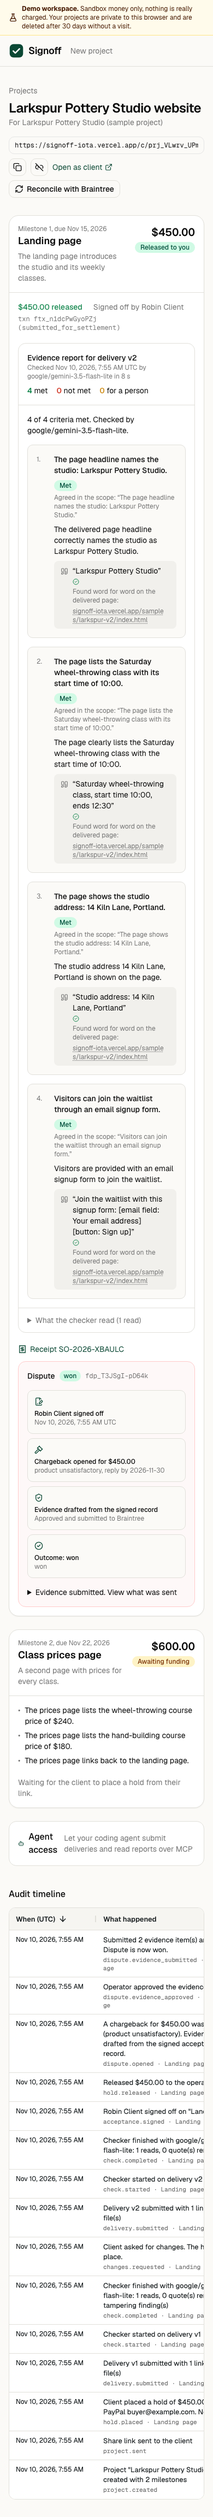
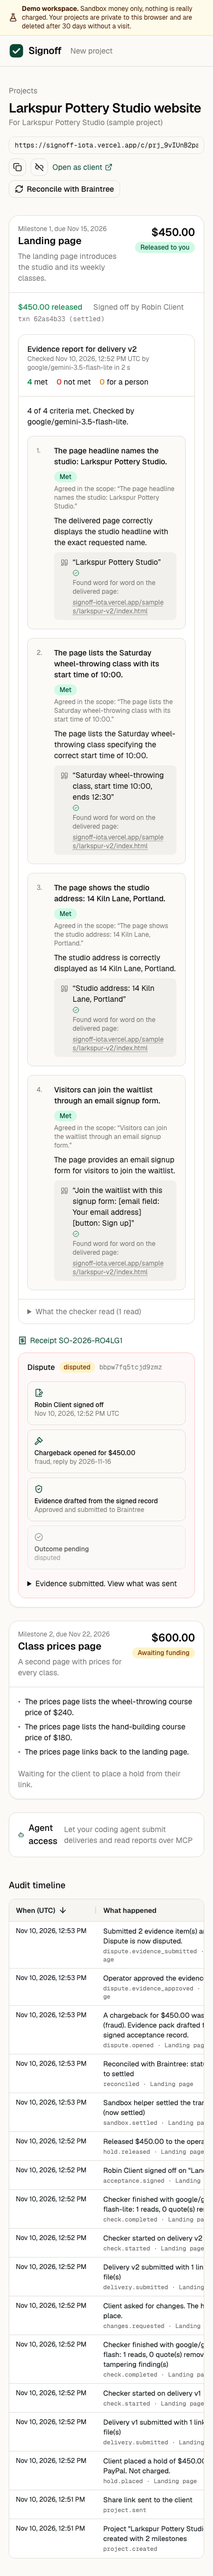
Docs: live Braintree sandbox results of 10 November 2026, PayPal not available without a linked PayPal sandbox account, dispute ends disputed; refreshed production screenshots on the sandbox

Changed region(s): [[0.0615, 0.0, 0.9538, 1.0]]

diff --git a/src/app/page.tsx b/src/app/page.tsx
@@ -18,7 +18,7 @@ const steps = [
   {
     icon: Lock,
     title: "Money held, not charged",
-    body: "The client funds a milestone with PayPal or a card. It is an authorization: the money is reserved and nothing is charged until they sign off.",
+    body: "The client funds a milestone through Braintree, a PayPal service. It is an authorization: the money is reserved and nothing is charged until they sign off.",
   },
   {
     icon: ShieldCheck,

diff --git a/README.md b/README.md
@@ -2,7 +2,7 @@
 
 Pay on acceptance for freelance and agency work. The client's money is held up front, an AI checker tests the delivery against the acceptance criteria both sides agreed and shows its evidence, and the money is released only when the client signs off.
 
-**Live demo:** https://signoff-iota.vercel.app. No sign-up: each visitor gets a private demo workspace with test money, on the built-in test rail until the Braintree sandbox keys are in. The header says which rail is live.
+**Live demo:** https://signoff-iota.vercel.app. No sign-up: each visitor gets a private demo workspace, and every payment runs on the real Braintree sandbox. No real money moves.
 **Health:** https://signoff-iota.vercel.app/api/health shows which payment rail and which AI model are live right now.
 
 ![The evidence report on the cheat sample: tampering found, and the hidden start time and address not accepted as proof](docs/screenshots/report-cheat.png)
@@ -21,7 +21,23 @@ Signoff moves money through **Braintree**, which is part of the PayPal developer
 
 PayPal does not open accounts in Pakistan, where the builder lives ([Profit, January 2024](https://profit.pakistantoday.com.pk/2024/01/06/fact-check-paypal-is-not-coming-to-pakistan/): users "can simply not create an account on PayPal from Pakistan"), so PayPal REST sandbox credentials were not available. The Braintree sandbox is. Clients pay with their PayPal account through Braintree's PayPal integration, or with a card.
 
-**Status of the live sandbox:** the Braintree integration is written and covered by a gated live test suite (`tests/unit/live-braintree.test.ts`), but it has **not yet been run against the Braintree sandbox**, because the sandbox keys are still pending. Until they arrive, the hosted demo and the tests run on a built-in test rail (`src/lib/payments/fake-rail.ts`) with the same rules as Braintree: void only while authorized or submitted, release only while authorized, settle only after release, holds expire (7 days for cards, 29 for PayPal), and it accepts Braintree's documented fake nonces. The header and the client page say which rail is live.
+**Run against the live Braintree sandbox on 10 November 2026.** The hosted demo runs every payment on the sandbox (`/api/health` reports `"rail":"sandbox"`). What was run, and the result:
+
+| Case | Result |
+|---|---|
+| Client token for the Drop-in | Passed |
+| Hold with a card, release, settle (sandbox settle helper) | Passed |
+| Partial release | Passed |
+| Void | Passed |
+| A retried hold with the same order id returns the first hold; a retried release or void returns the transaction | Passed |
+| Processor decline (`fake-processor-declined-visa-nonce`) | Passed: refused with Braintree's message |
+| Webhook signature check with the real keys; a tampered signature | Passed: 200 and 400 on the hosted endpoint |
+| Dispute card `4023 8984 9398 8028`: settle, chargeback opens, evidence added and finalized | Passed: Braintree reports the dispute as `disputed` with the evidence attached |
+| Real Drop-in, card typed into Braintree's frames, in a browser on the host | Passed, in the production browser test |
+| Full loop on the host: hold, cheat caught, change request, passing delivery, sign-off and release, receipt, settle, dispute by reconcile and then by Braintree's own `dispute_opened` webhook, evidence approved and submitted | Passed |
+| PayPal through Braintree | Not available: see below |
+
+**PayPal in this sandbox.** The Drop-in's PayPal option fails with Braintree's error `PAYPAL_SANDBOX_ACCOUNT_NOT_LINKED`: "A linked PayPal Sandbox account is required to use PayPal Checkout in Sandbox." The builder cannot open a PayPal account, so none can be linked, and the server refuses Braintree's PayPal test nonce with "Payment instrument type is not accepted by this merchant account". The hosted demo therefore offers cards only, says why next to the form, and the PayPal code path stays behind `BRAINTREE_PAYPAL_ENABLED`. Installs with no keys, and CI, run on a built-in test rail (`src/lib/payments/fake-rail.ts`) with the same rules as Braintree: void only while authorized or submitted, release only while authorized, settle only after release, holds expire (7 days for cards, 29 for PayPal), and Braintree's documented fake nonces are accepted.
 
 | Product step | Braintree mechanism |
 |---|---|
@@ -30,7 +46,7 @@ PayPal does not open accounts in Pakistan, where the builder lives ([Profit, Jan
 | Client accepts | `transaction.submitForSettlement` (full release) |
 | Partial release | `submitForSettlement` with a smaller amount; the rest of the hold drops off |
 | Client declines | `transaction.void`, only after re-reading that the transaction is still `authorized` |
-| Payment form | Braintree Drop-in with PayPal (`intent: authorize`) and cards |
+| Payment form | Braintree Drop-in with cards; PayPal (`intent: authorize`) when a linked PayPal sandbox account allows it |
 | Webhooks | `webhookNotification.parse` verifies the signature; events are deduplicated; the transaction or dispute is re-read from Braintree |
 | Reconcile | `transaction.find` and `dispute.search` compare local state with Braintree; mismatches are flagged, never papered over |
 | Dispute defence | `dispute.find`, `dispute.addTextEvidence` and `dispute.finalize`, after the operator approves the pack |
@@ -40,7 +56,7 @@ PayPal does not open accounts in Pakistan, where the builder lives ([Profit, Jan
 Two people use Signoff: the **operator** (the freelancer or agency doing the work, who runs the app) and the **client** (who pays, and opens a link with no account).
 
 1. **Scope to milestones.** The operator pastes the scope. The AI drafts milestones with two to five checkable acceptance criteria each. Every criterion carries the exact sentence from the scope that justifies it, and the code checks that sentence is really in the scope.
-2. **Hold.** The client opens a signed link (no account) and funds a milestone with PayPal or a card. The page says the money is held, not charged, and when the hold expires.
+2. **Hold.** The client opens a signed link (no account) and funds a milestone by card through the Braintree Drop-in (PayPal too, where a linked PayPal sandbox account allows it). The page says the money is held, not charged, and when the hold expires.
 3. **Deliver.** The operator submits links (a staging URL, a public GitHub repository, a PDF), notes and files. Files are marked either as the deliverable itself or as the freelancer's notes.
 4. **Check.** The checker reads the delivery with read-only tools and marks each criterion met, not met or needs a person, quoting what it read. The page shows live progress.
 5. **Decide.** The client reads the evidence report and accepts and releases (typing their name), requests changes (the AI drafts the note from the failing criteria), or declines (the hold is voided).
@@ -52,12 +68,12 @@ Two people use Signoff: the **operator** (the freelancer or agency doing the wor
 
 Open the live demo and click **Try the live demo**. You get a private workspace with the sample project, a fictional pottery studio site. You play both sides.
 
-1. Open the project, then **Open as client**. Fund milestone 1 with a hold: on the test rail click **PayPal account (test nonce)**; on the Braintree sandbox, pay by card with `4023 8984 9398 8028` so step 6 has a real chargeback.
+1. Open the project, then **Open as client**. Fund milestone 1 with a hold through the Braintree Drop-in: copy the dispute test card `4023 8984 9398 8028` shown next to the form, any future expiry, any 3-digit code, so step 6 has a real chargeback. In a hurry, **Quick hold with the dispute card** makes the same sandbox hold from the server without typing.
 2. As the operator, pick **v1 with a cheat** and submit. The report flags text hidden from visitors, the requirement pasted onto the page and an instruction aimed at the AI, and the hidden start time and address are not accepted as proof.
 3. As the client, **Request changes**, **Draft from the report**, send.
 4. As the operator, submit **v2, complete**. All four criteria are met, with quotes.
 5. As the client, type a name and **Sign off and release payment**. Open the receipt.
-6. As the operator, open the chargeback: on the test rail click **Open a chargeback with a signed webhook**; on the sandbox click **Settle now and check for disputes**. Review the drafted evidence and approve it. The dispute screen shows sign-off, chargeback, evidence and outcome.
+6. As the operator, click **Settle now and check for disputes**. Braintree's sandbox settles the transaction and the dispute card opens a chargeback; it appears within a few seconds, and Braintree's webhook follows. Review the drafted evidence and approve it. Braintree marks the dispute `disputed` once evidence is finalized; the sandbox does not go on to rule won or lost. On an install with no keys, **Open a chargeback with a signed webhook** plays the same steps on the test rail.
 
 If a report says it was checked by the scripted checker, the day's AI budget is used up or the model did not answer. The report says which, and when the limit resets. The scripted checker matches key words and is more cautious: it sends more criteria to a person.
 
@@ -146,7 +162,7 @@ pnpm dev
 Open http://localhost:3000. Locally, sign in with the passcode `signoff-demo` and click **Load sample project**, or set `DEMO_MODE=true` to get the public-demo flow. Data goes to `./data/signoff.db`, and the app creates its tables on first run.
 
 - **With no keys** the app runs on the test rail and the scripted checker. The whole loop works, including disputes.
-- **With Braintree sandbox keys** (`BRAINTREE_MERCHANT_ID`, `BRAINTREE_PUBLIC_KEY`, `BRAINTREE_PRIVATE_KEY`) the client page shows the Braintree Drop-in with PayPal and cards. Create a free sandbox at https://sandbox.braintreegateway.com. Test card `4111 1111 1111 1111`; dispute test card `4023 8984 9398 8028`.
+- **With Braintree sandbox keys** (`BRAINTREE_MERCHANT_ID`, `BRAINTREE_PUBLIC_KEY`, `BRAINTREE_PRIVATE_KEY`) the client page shows the Braintree Drop-in with cards, Braintree's test cards to copy, and quick server-side holds (set `BRAINTREE_PAYPAL_ENABLED=true` only if your sandbox has a linked PayPal sandbox account). Create a free sandbox at https://sandbox.braintreegateway.com. Test card `4111 1111 1111 1111`; dispute test card `4023 8984 9398 8028`.
 - **With `GOOGLE_GENERATIVE_AI_API_KEY`** (a free key from Google AI Studio works) the planner and checker use Gemini. The free tier may use prompts to improve Google's products, so the public demo asks visitors not to paste real client documents.
 
 Hosting: [docs/deploy.md](docs/deploy.md) has the environment variables and the steps for Vercel with a hosted libSQL database, and where to point the Braintree webhook.
@@ -198,7 +214,9 @@ The cheat pages in `public/samples/` are test fixtures: they hide text and addre
 
 ## Known limits
 
-- Not yet run against the Braintree sandbox; see the status above. What the Drop-in's PayPal button does on a sandbox not linked to a PayPal test account is unverified.
+- PayPal through Braintree is not shown working: the sandbox needs a linked PayPal sandbox account, which the builder cannot have. Cards work end to end.
+- After evidence is finalized, the sandbox leaves the dispute `disputed`; a won or lost outcome is not shown on the live sandbox. The test rail shows the outcome step.
+- Braintree's control panel offers webhook subscriptions for disputes only in this sandbox; transaction status changes are picked up by reconcile, which runs on every money action and from the **Reconcile with Braintree** button.
 - Hidden text set by JavaScript (including text a script removes on load), by stylesheets from another origin or `@import`, by pseudo-class or sibling selectors, by text over an image or gradient, or by stacking one element over another is not detected, and neither is a server that shows the checker a different page from visitors; a headless browser would catch most of these.
 - The instruction detector is a pattern list: it catches common phrasings and disguises, not every paraphrase. The evidence rule, not the detector, is what stops a steered model from passing work.
 - Client links do not expire; the operator can replace a link to revoke the old one.

diff --git a/docs/deploy.md b/docs/deploy.md
@@ -2,7 +2,7 @@
 
 Signoff runs on any Node host. These are the exact steps for Vercel with a hosted libSQL database (Turso), which is how the public demo runs.
 
-Public demo: https://signoff-iota.vercel.app (health: https://signoff-iota.vercel.app/api/health). It runs on Vercel with a Turso database in AWS US East, Gemini, and the test rail until Braintree sandbox keys are added.
+Public demo: https://signoff-iota.vercel.app (health: https://signoff-iota.vercel.app/api/health). It runs on Vercel with a Turso database in AWS US East, Gemini, and the Braintree sandbox (since 10 November 2026).
 
 ## What the app needs from the host
 
@@ -27,6 +27,8 @@ Public demo: https://signoff-iota.vercel.app (health: https://signoff-iota.verce
 | `ANTHROPIC_API_KEY`, `AI_PROVIDER` | no | Use Claude instead: `AI_PROVIDER=anthropic`. |
 | `BRAINTREE_MERCHANT_ID`, `BRAINTREE_PUBLIC_KEY`, `BRAINTREE_PRIVATE_KEY` | for real payments | Braintree sandbox keys. Without them the app uses the built-in test rail and says so in the header and on the client page. |
 | `BRAINTREE_MERCHANT_ACCOUNT_ID` | no | A specific merchant account, for a non-default currency. |
+| `BRAINTREE_PAYPAL_ENABLED` | no | `true` shows PayPal in the Drop-in. Braintree's sandbox needs a linked PayPal sandbox account for it (otherwise `PAYPAL_SANDBOX_ACCOUNT_NOT_LINKED`); off by default. |
+| `E2E_BYPASS_TOKEN` | no | Test-only, 32 characters or more. Browser tests that send it in `x-signoff-e2e` may start demo workspaces without counting against the per-address limit; every other cap still applies. Leave unset unless you run the production browser tests. |
 | `CURRENCY` | no | Default `USD`. Match the Braintree merchant account. |
 | `DEMO_VIDEO_URL` | no | Shows a "Watch the demo" button on the front page. |
 | `LIMIT_*` | no | Daily caps. Defaults: per demo workspace 15 AI checks, 10 AI drafts, 10 AI change notes, 150 page reads; per visitor address 120 AI checks and 25 new workspaces (judges may share one office address), and ten workspaces' worth of drafts, notes and reads; for the whole server 400 checks, 300 drafts, 150 notes, 5,000 reads. The last fifth of the day's checks is kept for first-time visitors. Every cap resets at 00:00 UTC, and a visitor who hits one is told which cap and when it resets. Keep the global check cap under your model provider's daily quota. |
@@ -66,8 +68,10 @@ E2E_BASE_URL=https://<your-url> pnpm test:e2e
 
 In the Braintree control panel, open **Settings, Webhooks**, add `https://<your-url>/api/webhooks/braintree`, and subscribe to:
 
-- Transaction: settled, settlement declined, disbursed
-- Dispute: opened, under review, won, lost, accepted, expired
+- Dispute: all kinds (opened, under review, won, lost, accepted, auto-accepted, disputed, expired)
+- Transaction kinds, where your control panel offers them. This project's sandbox offers dispute kinds only; transaction status is then kept in step by reconcile.
+
+Verified on 10 November 2026: a dispute opened in the sandbox reached the hosted endpoint as `dispute_opened` and then `dispute_disputed`, and a signed sample webhook got 200 while a tampered one got 400.
 
 The handler verifies every signature with the Braintree SDK, deduplicates events, and re-reads the transaction or dispute from Braintree rather than trusting the payload. Without a public webhook URL, **Reconcile with Braintree** on a project pulls the same state.
 

diff --git a/docs/requirements-checklist.md b/docs/requirements-checklist.md
@@ -14,7 +14,7 @@ PayPal does not open accounts in Pakistan, where the builder lives, so PayPal RE
 
 | Requirement | Status | Where |
 |---|---|---|
-| Integrates the PayPal developer platform using the free sandbox | Partly met | Braintree rail in `src/lib/payments/braintree-rail.ts`; live checks in `tests/unit/live-braintree.test.ts`. **Not yet run against the Braintree sandbox: keys pending.** The hosted demo runs on the test rail until then and says so. |
+| Integrates the PayPal developer platform using the free sandbox | Met | Braintree sandbox, run live on 10 November 2026: hold, release, partial release, void, retries, decline, webhook signatures, the dispute card through to evidence finalized (`tests/unit/live-braintree.test.ts`, 8 of 9 cases; the ninth is PayPal, below), and the full loop on the host with the real Drop-in (`tests/e2e/loop.spec.ts` against production). `/api/health` reports `"rail":"sandbox"`. PayPal through Braintree is not available: the sandbox needs a linked PayPal sandbox account (`PAYPAL_SANDBOX_ACCOUNT_NOT_LINKED`) |
 | Integrates an AI tool, model or platform | Met | Gemini (default) and Claude through the Vercel AI SDK, `src/lib/ai/`. Live Gemini evaluation: 31 of 31 correct on 8 deliveries, `docs/eval-latest.md` |
 | PayPal integration central to the project | Met | Holds, release, partial release, void, expiry, webhooks, reconcile, dispute evidence: README "Payment rail" |
 | AI meaningful, not decorative | Met | Planner with verified citations; checker agent with read-only tools; evidence rule enforced in code; tampering findings; change-note drafting. Lint forbids the AI code from importing the payment rail |
@@ -22,7 +22,7 @@ PayPal does not open accounts in Pakistan, where the builder lives, so PayPal RE
 | Sufficiently documented | Met | `README.md`, `docs/deploy.md`, `docs/eval-latest.md` |
 | Newly created during the submission period | Met | A new project, started 9 November 2026; the first commit is `cb2c029` on that day. Stated at the top of the README |
 | Third-party SDKs used under their terms | Met | Braintree SDKs (MIT), AI SDK (Apache-2.0), AG Grid Community (MIT), ipaddr.js (MIT). The Gemini free tier may use prompts to improve Google's products, so the public demo asks visitors not to paste real client documents |
-| Installs and runs as depicted | Met on the test rail; Partly met on the sandbox | As in the first row |
+| Installs and runs as depicted | Met | Hosted on the Braintree sandbox; installs with no keys run on the test rail |
 
 ## Submission requirements
 
